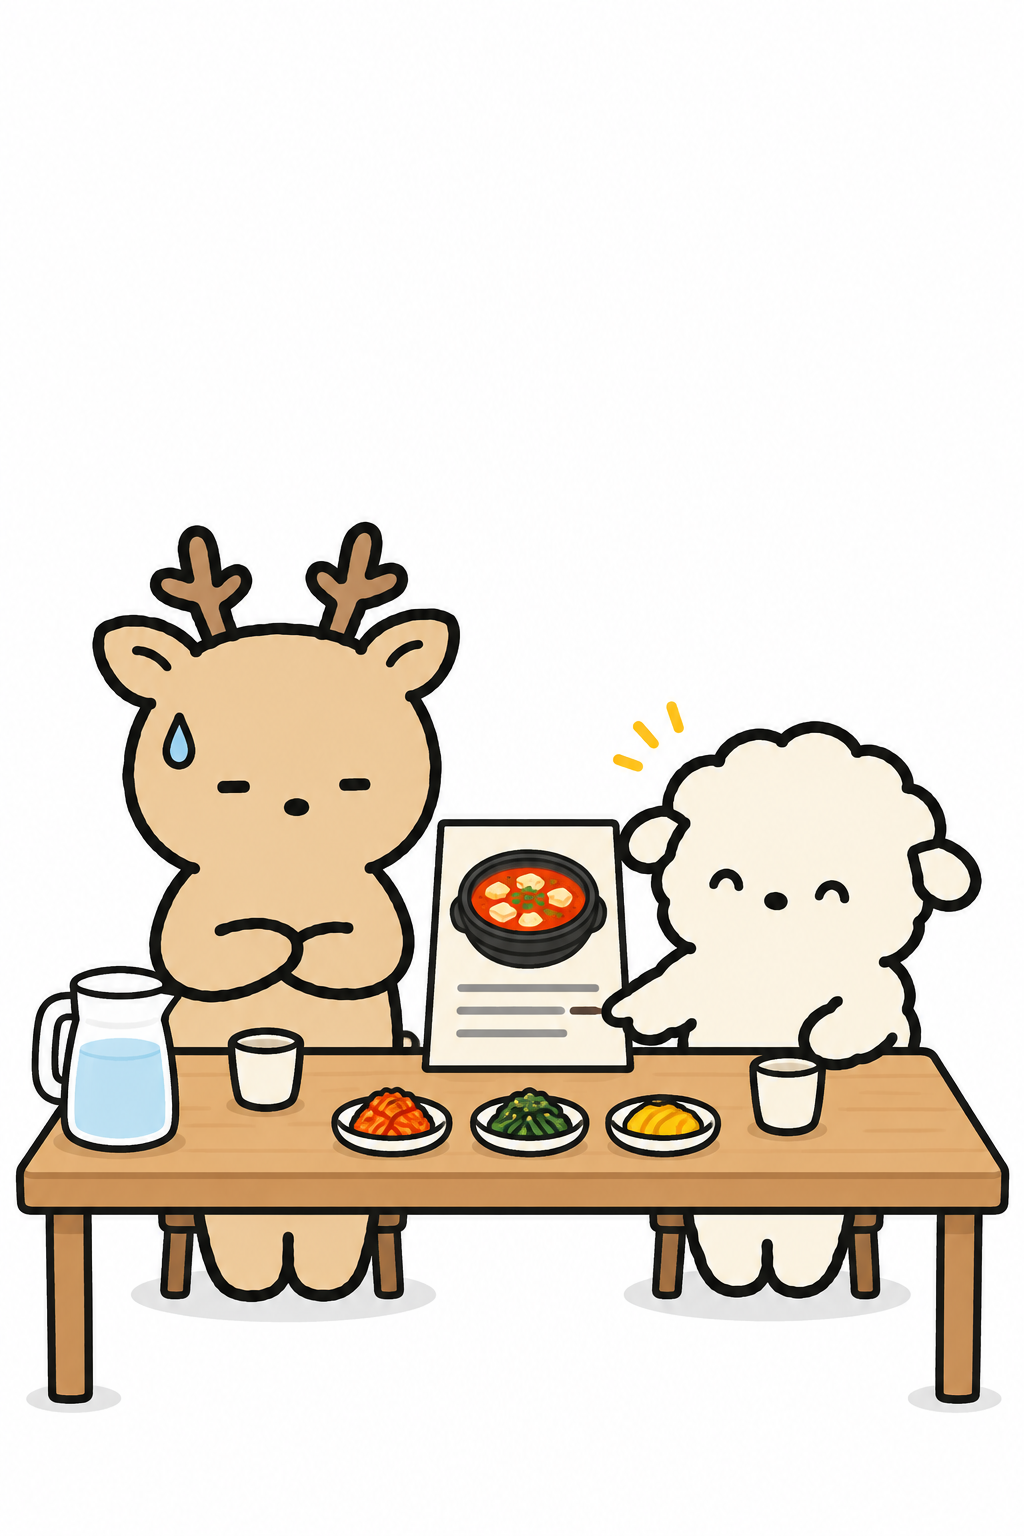
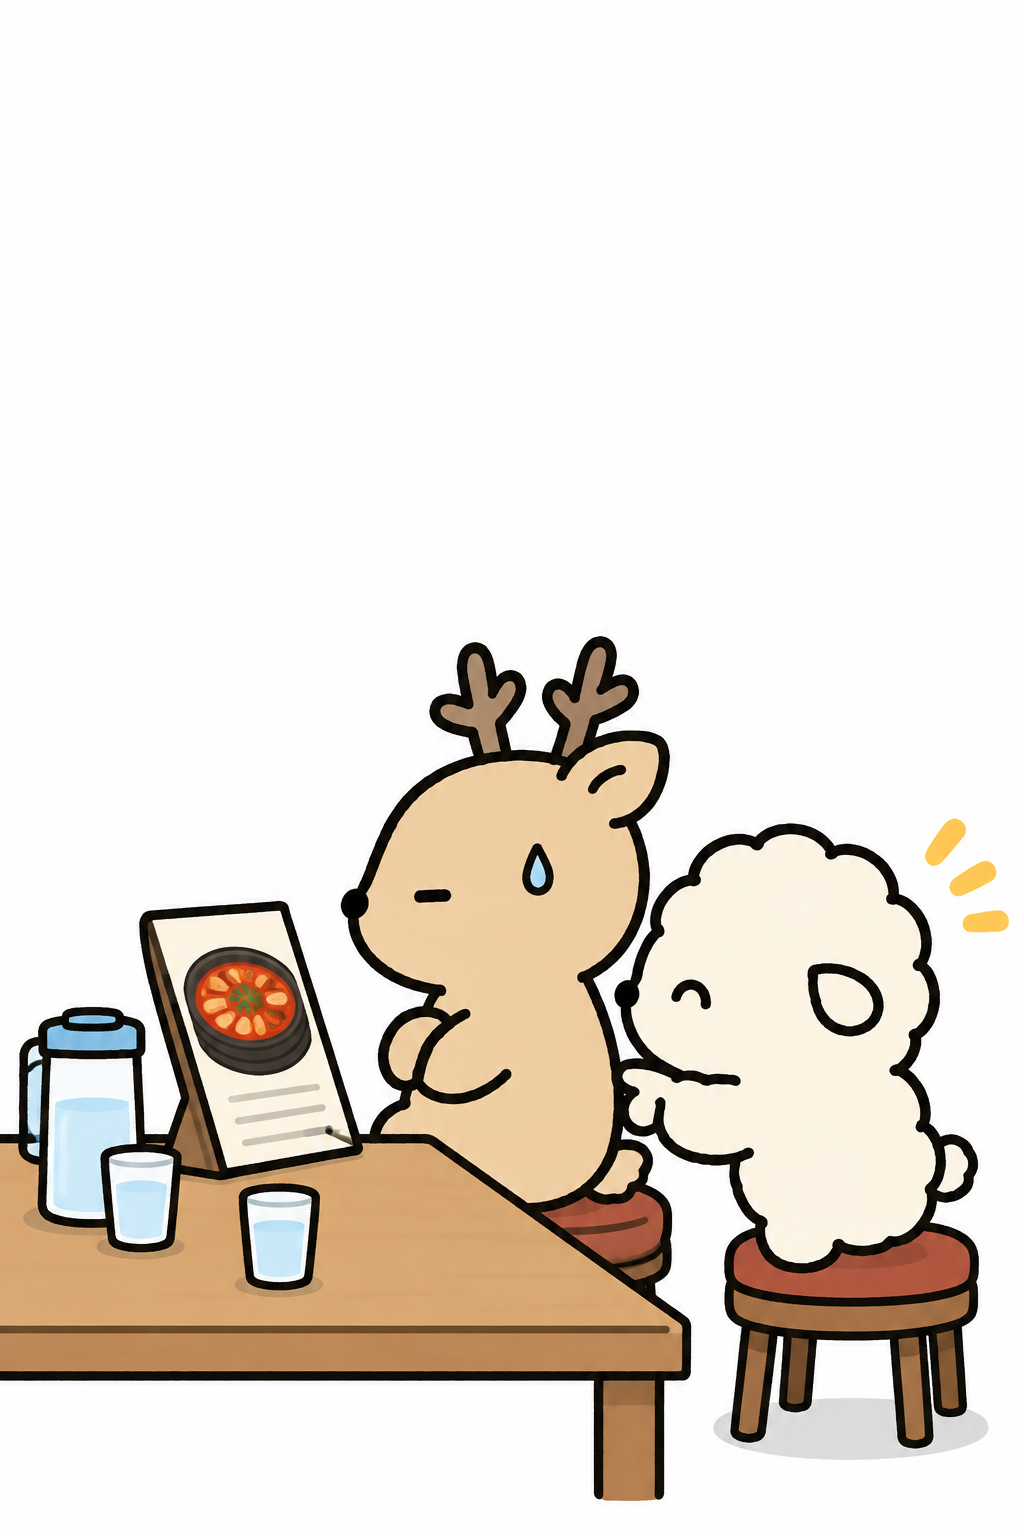
EP.04 수정: 내레이션 1인칭(나는), 구도 다양화(1 하이앵글·2 클로즈업·3 측면·4 전경/후경·6 로우앵글), 2컷 전원 착석

diff --git a/episodes/ep04/compose.html b/episodes/ep04/compose.html
@@ -32,33 +32,33 @@
 
 <section id="s1">
   <img class="art" src="img/cut1.png" alt="">
-  <div class="narr">우리는 메뉴판을 펼치는 순간
+  <div class="narr">나는 메뉴판을 펼치는 순간
 온 세상의 시간을 멈출 수 있다.</div>
 </section>
 
 <section id="s2">
   <img class="art" src="img/cut2.png" alt="">
   <div class="narr">남들이 대충 넘기는 메뉴판 구석까지
-우리는 한 글자도 빠짐없이 읽어내고</div>
-  <div class="mind" style="left:120px;top:440px;width:420px;text-align:center">이런 게 있었어?</div>
-  <div class="mind s" style="left:800px;top:790px;width:260px;text-align:center;color:#3A3733">가족 세트 20% 할인</div>
+나는 한 글자도 빠짐없이 읽어내고</div>
+  <div class="mind" style="left:60px;top:440px;width:420px;text-align:center">이런 게 있었어?</div>
+  <div class="mind s" style="left:140px;top:1120px;width:320px;text-align:center;color:#3A3733">가족 세트 20% 할인</div>
 </section>
 
 <section id="s3">
   <img class="art" src="img/cut3.png" alt="">
   <div class="narr">말 못 하고 있는 가족의 취향까지
 멈춘 시간 속에서 다 챙길 수 있지만...</div>
-  <div class="mind" style="left:60px;top:340px;width:460px;text-align:center">아빠는 아무거나.</div>
-  <div class="mind" style="left:620px;top:420px;width:420px;text-align:center">순한맛도 있어!</div>
-  <div class="mind s" style="left:470px;top:840px;width:180px;text-align:center;color:#3A3733">순한맛</div>
+  <div class="mind" style="left:60px;top:400px;width:440px;text-align:center">아빠는 아무거나.</div>
+  <div class="mind" style="left:660px;top:500px;width:400px;text-align:center">순한맛도 있어!</div>
+  <div class="mind s" style="left:285px;top:918px;width:120px;text-align:center;color:#3A3733;font-size:26px">순한맛</div>
 </section>
 
 <section id="s4" class="dim">
   <img class="art" src="img/cut4.png" alt="">
   <div class="narr">사실 이 능력으론
 나 말곤 아무도 멈출 수 없다!</div>
-  <div class="mind" style="left:180px;top:500px;width:480px;text-align:center">얘는 두고 먼저 시킬게요</div>
-  <div class="mind" style="left:740px;top:560px;width:320px;text-align:center">누나 또 시작이다</div>
+  <div class="mind" style="left:60px;top:410px;width:520px;text-align:center">얘는 두고 먼저 시킬게요</div>
+  <div class="mind" style="left:640px;top:440px;width:420px;text-align:center">누나 또 시작이다</div>
 </section>
 
 <section id="s5" class="dim">
@@ -75,7 +75,7 @@
   <img class="art" src="img/cut6.png" alt="">
   <div class="narr">겨우 고른 뒤에는
 남의 그릇에서 눈을 떼지 못한다.</div>
-  <div class="mind" style="left:120px;top:420px;width:420px;text-align:center">저거 시킬 걸...</div>
+  <div class="mind" style="left:60px;top:400px;width:420px;text-align:center">저거 시킬 걸...</div>
 </section>
 
 <section id="s7">

diff --git a/episodes/ep04/build_prompts.py b/episodes/ep04/build_prompts.py
@@ -35,6 +35,7 @@ WATCH = """Prop of this episode, THE POCKET WATCH: a round pocket watch about ha
 TABLE = "Setting: a family restaurant, but the background stays plain white — only a simple flat light-wood rectangular dining table seen from the front, with the characters seated behind it on simple stools so their upper bodies show above the table top. A few tiny flat props on the table: a water pitcher, small side-dish plates, cups. "
 MENU = "The MENU is a folded booklet with blank pages — only faint light-gray horizontal lines and a few small pale colored rectangles as photo placeholders, no letters at all. "
 FROZEN = "FROZEN characters are drawn entirely in ONE flat pale blue-gray #D5DBE1 (their body color, props and everything they hold become that same gray, black outline kept), stiff, caught mid-motion, with a small black pause symbol (two short vertical bars) floating above each frozen head. "
+CAMERA_NOTE = "If a size lineup image is given it is only for the characters' relative sizes, not for the seating layout or camera. "
 LAYOUT = "Everything in the lower 60% of the image; the upper 40% must be completely empty white."
 END = "\nNo text, no letters, no speech bubbles, no captions. Plain white background. One flat light-gray #E6E6E6 ellipse on the ground under each standing character and under any large object resting on the ground, as a contact shadow; no other shadows, no shading on the bodies.\n"
 
@@ -51,30 +52,29 @@ cuts['cover'] = head(DUBU, WATCH) + (
     "Behind her, a little to one side, stands a simple A-frame sidewalk sign (a chalkboard easel sign, dark green board, wooden frame) that is completely blank. "
     "Character in the lower 60% of the image; the upper 40% must be completely empty white for a title.") + END
 
-cuts['cut1'] = head(DUBU, MISOOK, DEOKSU, KONG, CLERK, WATCH) + TABLE + MENU + FROZEN + (
-    "Scene: the moment Dubu opens the menu, the whole world freezes. Seated behind the table from left to right: Misook, Deoksu, Dubu, Kong. "
-    "Dubu is the ONLY one in full color: she wears THE POCKET WATCH and holds the open MENU up with both hands, dot eyes on it, calm. "
-    "Everyone else is FROZEN gray: Misook tilting a cup so that a blob of water hangs suspended in mid-air between the cup and the table; "
-    "Deoksu holding a half-unfolded wet towel; Kong with chopsticks lifting a side dish halfway to his face; and the Clerk standing at the right end of the table "
-    "with a small notepad and a pen raised, caught mid-word. Pause symbols above the four frozen heads. " + LAYOUT) + END
+cuts['cut1'] = head(DUBU, MISOOK, DEOKSU, KONG, CLERK, WATCH) + CAMERA_NOTE + (
+    "CAMERA: high angle, looking down at the dining table from above and slightly in front, so the table top is a large light-wood rectangle in the middle of the picture and the four seated characters are seen from above around it, each on a small stool (Misook and Deoksu on the far side, Dubu and Kong on the near side, Dubu at the front-right); the Clerk stands beside the table at the right. Plain white background around the table. "
+    + MENU + FROZEN +
+    "Scene: the moment Dubu opens the menu, the whole world freezes. Dubu is the ONLY one in full color: she wears THE POCKET WATCH and holds the open MENU up with both hands, calm. "
+    "Everyone else is FROZEN gray: Misook tilting a cup so that a blob of water hangs suspended in mid-air above the table; Deoksu holding a half-unfolded wet towel; "
+    "Kong with chopsticks lifting a side dish halfway to his face; the Clerk holding a small notepad and a pen, caught mid-word. Pause symbols above the four frozen heads. "
+    "On the table: a water pitcher, cups, small side-dish plates. Everything in the lower 65% of the image; the upper 35% must be completely empty white.") + END
 
-cuts['cut2'] = head(DUBU, MISOOK) + TABLE + MENU + (
-    "Scene: only Dubu and Misook, seated side by side behind the table. Dubu (right) has flipped the MENU to its very last page and holds it so close that it almost touches her nose, "
-    "reading the tiny corner of the page; her dot eyes point at the bottom corner of the page. Misook (left) leans her whole body sideways toward Dubu to peek at the same corner, "
-    "eyes as slightly bigger round dots, one small heart floating above Misook's head. Bright, warm colors. Keep the lower-right corner of the menu page plain and visible so a label can be added later. " + LAYOUT) + END
+cuts['cut2'] = head(DUBU, MISOOK) + CAMERA_NOTE + MENU + (
+    "CAMERA: extreme close-up. The bottom corner of the MENU's last page fills the lower-left half of the picture at an angle, held by Dubu's two stubby cream hands; Dubu's face is partly visible right behind the page, very close, her dot eyes aimed at the page corner. "
+    "From the right edge, Misook's face and one big pointed ear lean into the frame, close to Dubu's, peeking at the same corner, eyes as slightly bigger round dots, one small heart floating above her head. "
+    "Both are seated at a table (only the table edge shows at the very bottom); no full bodies. Keep the visible corner of the menu page plain so a label can be added later. Bright, warm colors. "
+    "Everything in the lower 65% of the image; the upper 35% must be completely empty white.") + END
 
-cuts['cut3'] = head(DUBU, DEOKSU) + TABLE + (
-    "Scene: only Dubu and Deoksu, seated side by side behind the table. Between them a MENU page is propped up, showing one big flat picture of a bright red spicy stew in a black bowl, "
-    "and below it several faint gray lines, the last line at the very bottom being the item Dubu points at with one stubby finger (no letters anywhere). "
-    "Deoksu (left) sits very straight with his arms crossed, pretending to be fine, eyes as two small straight dashes, but ONE sweat drop slides down his forehead. "
-    "Dubu (right) turns toward him, eyes as closed happy upward arcs, pointing at the bottom of the menu. Bright, warm colors. " + LAYOUT) + END
+cuts['cut3'] = head(DUBU, DEOKSU) + CAMERA_NOTE + (
+    "CAMERA: side view, full profile, the camera at table height looking along the table from its end. Deoksu and Dubu sit side by side on stools, both in profile facing left, Deoksu nearer to the camera and Dubu just behind him, the table edge running across the lower part of the picture. "
+    "Scene: a MENU page is propped up on the table in front of them, seen edge-on at a slight angle so its picture is still visible: one big flat picture of a bright red spicy stew in a black bowl, and faint gray lines below it. "
+    "Deoksu sits very straight with his arms crossed, pretending to be fine, eye as a small straight dash, ONE sweat drop sliding down his forehead. Dubu leans forward past him, eyes as closed happy arcs, pointing with one stubby finger at the very bottom line of the menu. "
+    "A water pitcher and two cups on the table. Bright, warm colors. " + LAYOUT) + END
 
-cuts['cut4'] = head(DUBU, MISOOK, DEOKSU, KONG, CLERK, WATCH) + TABLE + MENU + FROZEN + (
-    "Scene: the same table as before, but reversed — now DUBU is the only FROZEN one. Seated behind the table from left to right: Misook, Deoksu, Dubu, Kong. "
-    "Dubu is entirely flat gray #D5DBE1 (body, pocket watch and the menu she holds), stiff, holding the open MENU in front of her with dot eyes on the first page, "
-    "and a thin cobweb (a few simple radial lines with rings) is spun between the top of the menu and her head. No pause symbol on her. "
-    "Everyone else is in normal full color and busy: the Clerk stands at the LEFT end of the table, turned toward Misook, writing on the notepad; Misook points at her own menu ordering; "
-    "Deoksu drinks from a cup; Kong already eats a side dish with chopsticks, eyes as closed happy arcs, a couple of small motion lines near his chopsticks. "
+cuts['cut4'] = head(DUBU, MISOOK, DEOKSU, KONG, CLERK, WATCH) + CAMERA_NOTE + MENU + FROZEN + (
+    "CAMERA: Dubu large in the foreground, the others small in the back. In the lower-right foreground, seen from behind at a three-quarter angle over her shoulder, Dubu sits on a stool and is drawn BIG: the back of her fluffy head, one ear, her shoulders, the pocket watch chain at her neck and the open MENU she holds up — all of it FROZEN flat gray #D5DBE1, stiff, with a thin cobweb (simple radial lines with rings) spun between the top of the menu and her head. No pause symbol on her. "
+    "Beyond her, smaller and farther away across the table, in normal full color and busy: Misook seated pointing at her own menu while the Clerk STANDS on the floor beside the table next to her (the Clerk is a waiter, never seated, no stool under him) writing on a notepad, Deoksu seated drinking from a cup, Kong seated eating a side dish with chopsticks, eyes as closed happy arcs, small motion lines near his chopsticks. All seated characters on stools. "
     "Colors slightly muted. " + LAYOUT) + END
 
 cuts['cut5'] = head(DUBU, MISOOK, DEOKSU, KONG) + TABLE + MENU + (
@@ -83,11 +83,10 @@ cuts['cut5'] = head(DUBU, MISOOK, DEOKSU, KONG) + TABLE + MENU + (
     "she wears small round black-rimmed glasses, holds a yellow highlighter pen and is drawing a bright yellow line across one menu line, several small colored sticky notes (pink, yellow, blue) stick out of the menu's edges, "
     "and an open notebook with a pencil lies on the table beside her. Colors muted. Keep a little space beside each crying belly for small labels. " + LAYOUT) + END
 
-cuts['cut6'] = head(DUBU, KONG) + TABLE + (
-    "Scene: only Dubu and Kong, seated side by side behind the table, the food has arrived. In front of Dubu (left): a bowl of jajangmyeon — noodles with flat dark-brown black-bean sauce and a few cucumber slivers. "
-    "In front of Kong (right): a bowl of jjamppong — bright red spicy soup with noodles and a few small seafood bits. Kong eats happily, chopsticks up, eyes as closed upward arcs. "
-    "Dubu holds her chopsticks limply over her own bowl, but her WHOLE HEAD is turned to the right in three-quarter profile so she faces Kong's red bowl, both dot eyes shifted to the far right corners staring at his soup (side-eye), her body still facing forward; three short vertical gloom lines are drawn on her forehead. No sparkle or emphasis lines anywhere. "
-    "Colors muted except the two bowls. " + LAYOUT) + END
+cuts['cut6'] = head(DUBU, KONG) + CAMERA_NOTE + (
+    "CAMERA: low angle from table-top level, the bowls large in the foreground. At the very front, drawn big and close: on the left a bowl of jajangmyeon (noodles under flat dark-brown black-bean sauce with a few cucumber slivers), on the right a bowl of jjamppong (bright red spicy soup with noodles and small seafood bits), both seen from just above their rims. "
+    "Behind the bowls, smaller, Dubu and Kong sit side by side on stools: Kong (right) eats happily with chopsticks lifting noodles, eyes as closed upward arcs. Dubu (left) holds her chopsticks limply over her own bowl, but her whole head is turned to the right toward Kong's red bowl, both dot eyes shifted to the corners staring at it (side-eye), three short vertical gloom lines on her forehead. "
+    "Colors muted except the two bowls. No sparkle or emphasis lines. " + LAYOUT) + END
 
 cuts['cut7'] = head(DUBU, MISOOK, DEOKSU, KONG, WATCH) + TABLE + MENU + (
     "Scene: seated behind the table, Dubu in the CENTER facing the viewer, Misook and Deoksu on her left, Kong on her right. "

diff --git a/episodes/ep04/conti.md b/episodes/ep04/conti.md
@@ -6,14 +6,16 @@
 
 | 컷 | 장면 | 내레이션 | 속마음·대사(합성) |
 |---|---|---|---|
-| 표지 | 세움 메뉴판(A자 입간판) 앞에 회중시계를 건 두부. 죠죠 디오 '더 월드' 포즈 — 한 손을 앞으로 활짝 펼치고 다른 손은 허리, 상체를 뒤로 젖힘. 주위 반짝이 | 제목 | 감정: 반짝이 · 밈: 죠죠 DIO 시간정지 포즈 |
-| 1 | 식당 4인 테이블. 두부가 메뉴판을 펼쳐 든 순간 세상이 멈춤 — 주문 받으러 온 점원(물범)은 펜을 든 채, 미숙은 물컵을 기울이다 굳고 쏟아지던 물이 공중에 정지, 덕수는 물수건을 펴다, 콩은 젓가락으로 반찬을 집다 굳음. 두부만 컬러 | 우리는 메뉴판을 펼치는 순간 / 온 세상의 시간을 멈출 수 있다. | 감정: 정지된 캐릭터 머리 위 일시정지 기호(❚❚) |
-| 2 | 두부가 메뉴판을 맨 뒷장까지 넘겨 구석의 작은 글씨를 코앞에서 읽고, 옆의 미숙이 몸을 기울여 같이 들여다봄 | 남들이 대충 넘기는 메뉴판 구석까지 / 우리는 한 글자도 빠짐없이 읽어내고 | 미숙: 이런 게 있었어? · 라벨: 메뉴판 뒷장 구석 "가족 세트 20% 할인" · 감정: 미숙 머리 위 하트 |
-| 3 | 새빨간 매운 메뉴 사진이 붙은 메뉴판. 덕수는 팔짱 끼고 꼿꼿이 앉아 태연한 척하지만 이마에 땀 한 방울. 두부가 메뉴판 맨 아래 작은 항목을 손가락으로 짚어 덕수에게 보여 줌 | 말 못 하고 있는 가족의 취향까지 / 멈춘 시간 속에서 다 챙길 수 있지만... | 덕수: 아빠는 아무거나. · 두부: 순한맛도 있어! · 라벨: 메뉴판 맨 아래 "순한맛" · 감정: 덕수 땀방울 · 속마음 장치: 태연한 척 + 땀 |
-| 4 | **공유 컷.** 1컷과 같은 테이블, 반전. 두부만 회색으로 굳은 채 메뉴판 첫 장을 들고 있고, 두부와 메뉴판 사이에 거미줄. 나머지는 컬러로 바쁘게 움직임 — 점원은 미숙 쪽으로 몸을 돌려 주문을 받고, 미숙은 손가락으로 메뉴를 가리키며 주문 중, 콩은 이미 반찬을 집어 먹고, 덕수는 물을 마심. 저채도 | 사실 이 능력으론 / 나 말곤 아무도 멈출 수 없다! | 미숙: 얘는 두고 먼저 시킬게요 · 콩: 누나 또 시작이다 · 감정: 두부 거미줄 |
-| 5 | 같은 테이블. 미숙·덕수·콩 셋 다 배를 움켜쥐고 눈물 줄기를 흘리며 욺. 두부는 전혀 신경 쓰지 않고 메뉴판에 열중 — 동그란 안경을 쓰고 형광펜으로 메뉴판에 밑줄, 메뉴판에 붙은 포스트잇 여러 장, 옆에 펼친 노트 | 일행들 배에서 꼬르륵 소리가 날 때까지 / 나는 아직 메뉴판 학습 중이고 | 라벨: 미숙·덕수·콩 배 옆 "꼬르륵" 3개 · 콩: 누나 제발 · 감정: 가족 눈물 |
-| 6 | 음식 도착. 두부 앞엔 겨우 고른 짜장면, 옆자리 콩 앞엔 짬뽕. 콩은 눈을 호로 뜨고 신나게 먹는 중. 두부는 젓가락을 든 채 고개만 돌려 콩의 짬뽕을 곁눈질 | 겨우 고른 뒤에는 / 남의 그릇에서 눈을 떼지 못한다. | 두부: 저거 시킬 걸... · 감정: 두부 얼굴 세로 그늘선 |
-| 7 | 망토 + 회중시계 두부가 식당 테이블 가운데 앉아 메뉴판을 두 손으로 활짝 펼치고 정면(독자)을 봄. 양옆 미숙·덕수·콩은 턱을 괴고 편안히 기다림 (재촉 없음). 회중시계 뚜껑에 반사광 | 고민이 긴 건 그만큼 진심이라는 거 알죠? / 메뉴판 앞에서 시간 좀 멈춰도 이해해 주시길 바랍니다. | CTA: 당신 옆의 초능력자를 태그해 주세요 · 감정: 없음 (눈 일자) |
+| 표지 | 세움 메뉴판(A자 입간판) 앞에 회중시계를 건 두부. 죠죠 디오 '더 월드' 포즈 — 한 손을 앞으로 활짝 펼치고 다른 손은 허리, 상체를 뒤로 젖힘. 주위 반짝이 | 제목 | 감정: 반짝이 · 밈: 죠죠 DIO 시간정지 포즈 · 구도: 정면 |
+| 1 | 식당 4인 테이블. 두부가 메뉴판을 펼쳐 든 순간 세상이 멈춤 — 주문 받으러 온 점원(물범)은 펜을 든 채, 미숙은 물컵을 기울이다 굳고 쏟아지던 물이 공중에 정지, 덕수는 물수건을 펴다, 콩은 젓가락으로 반찬을 집다 굳음. 두부만 컬러 | 나는 메뉴판을 펼치는 순간 / 온 세상의 시간을 멈출 수 있다. | 감정: 정지된 캐릭터 머리 위 일시정지 기호(❚❚) · 구도: 위에서 내려다봄 |
+| 2 | 두부가 메뉴판을 맨 뒷장까지 넘겨 구석의 작은 글씨를 코앞에서 읽고, 옆자리에 앉은 미숙이 몸을 기울여 같이 들여다봄 (전원 의자에 앉음) | 남들이 대충 넘기는 메뉴판 구석까지 / 나는 한 글자도 빠짐없이 읽어내고 | 미숙: 이런 게 있었어? · 라벨: 메뉴판 뒷장 구석 "가족 세트 20% 할인" · 감정: 미숙 머리 위 하트 · 구도: 메뉴판 모서리·두부 손 클로즈업 |
+| 3 | 새빨간 매운 메뉴 사진이 붙은 메뉴판. 덕수는 팔짱 끼고 꼿꼿이 앉아 태연한 척하지만 이마에 땀 한 방울. 두부가 메뉴판 맨 아래 작은 항목을 손가락으로 짚어 덕수에게 보여 줌 | 말 못 하고 있는 가족의 취향까지 / 멈춘 시간 속에서 다 챙길 수 있지만... | 덕수: 아빠는 아무거나. · 두부: 순한맛도 있어! · 라벨: 메뉴판 맨 아래 "순한맛" · 감정: 덕수 땀방울 · 속마음 장치: 태연한 척 + 땀 · 구도: 측면 |
+| 4 | **공유 컷.** 1컷과 같은 테이블, 반전. 두부만 회색으로 굳은 채 메뉴판 첫 장을 들고 있고, 두부와 메뉴판 사이에 거미줄. 나머지는 컬러로 바쁘게 움직임 — 점원은 미숙 쪽으로 몸을 돌려 주문을 받고, 미숙은 손가락으로 메뉴를 가리키며 주문 중, 콩은 이미 반찬을 집어 먹고, 덕수는 물을 마심. 저채도 | 사실 이 능력으론 / 나 말곤 아무도 멈출 수 없다! | 미숙: 얘는 두고 먼저 시킬게요 · 콩: 누나 또 시작이다 · 감정: 두부 거미줄 · 구도: 두부 크게 앞(3/4 뒤에서) + 가족 멀리 |
+| 5 | 같은 테이블. 미숙·덕수·콩 셋 다 배를 움켜쥐고 눈물 줄기를 흘리며 욺. 두부는 전혀 신경 쓰지 않고 메뉴판에 열중 — 동그란 안경을 쓰고 형광펜으로 메뉴판에 밑줄, 메뉴판에 붙은 포스트잇 여러 장, 옆에 펼친 노트 | 일행들 배에서 꼬르륵 소리가 날 때까지 / 나는 아직 메뉴판 학습 중이고 | 라벨: 미숙·덕수·콩 배 옆 "꼬르륵" 3개 · 콩: 누나 제발 · 감정: 가족 눈물 · 구도: 정면 |
+| 6 | 음식 도착. 두부 앞엔 겨우 고른 짜장면, 옆자리 콩 앞엔 짬뽕. 콩은 눈을 호로 뜨고 신나게 먹는 중. 두부는 젓가락을 든 채 고개만 돌려 콩의 짬뽕을 곁눈질 | 겨우 고른 뒤에는 / 남의 그릇에서 눈을 떼지 못한다. | 두부: 저거 시킬 걸... · 감정: 두부 얼굴 세로 그늘선 · 구도: 낮은 앵글, 그릇 크게 앞 |
+| 7 | 망토 + 회중시계 두부가 식당 테이블 가운데 앉아 메뉴판을 두 손으로 활짝 펼치고 정면(독자)을 봄. 양옆 미숙·덕수·콩은 턱을 괴고 편안히 기다림 (재촉 없음). 회중시계 뚜껑에 반사광 | 고민이 긴 건 그만큼 진심이라는 거 알죠? / 메뉴판 앞에서 시간 좀 멈춰도 이해해 주시길 바랍니다. | CTA: 당신 옆의 초능력자를 태그해 주세요 · 감정: 없음 (눈 일자) · 구도: 정면 |
+
+구도: 표지 정면 · 1 하이앵글 · 2 클로즈업 · 3 측면 · 4 전경/후경 · 5 정면 · 6 로우앵글 · 7 정면 (정면 3컷, 연속 없음). 모든 컷에서 캐릭터는 의자에 앉음.
 
 톤: 1–3 밝음 → 4–6 저채도 → 7 망토 + 포인트 컬러 복귀. 감정 기호는 컷마다 다르게(표지 반짝이 · 1 일시정지 기호 · 2 하트 · 3 땀방울 · 4 거미줄 · 5 눈물 · 6 세로 그늘선 · 7 없음). 먹구름 없음. 참조: 두부·미숙·덕수·콩·점원 시트, `ref/lineup-*.png`. 접지 그림자 전 컷(테이블 밑 포함). 프롬프트는 `build_prompts.py`가 만든다.
 
